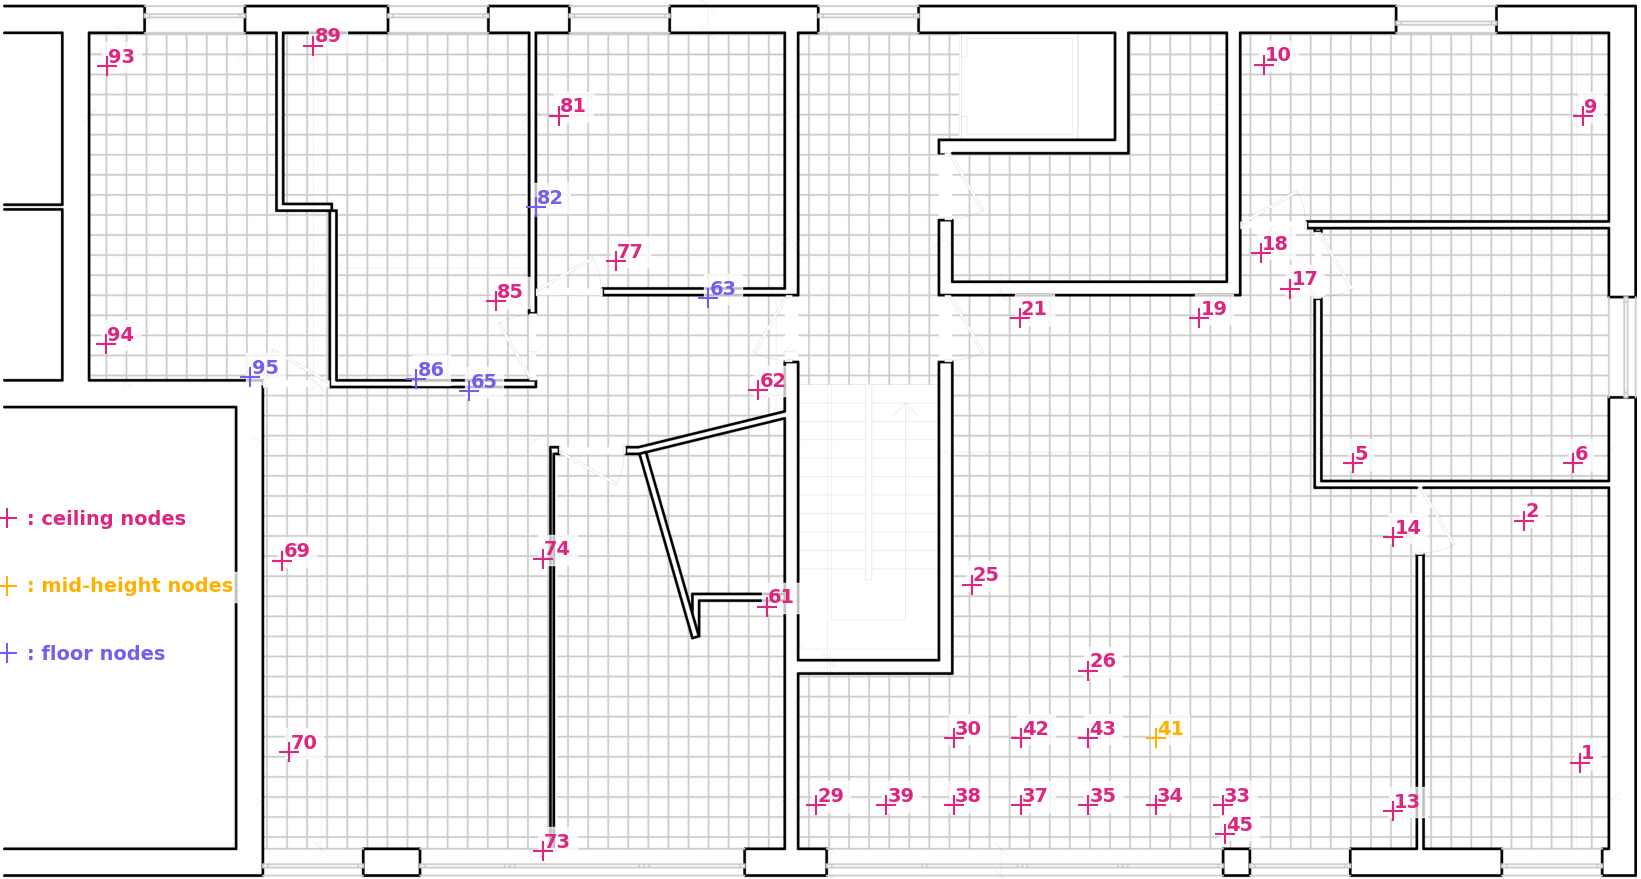
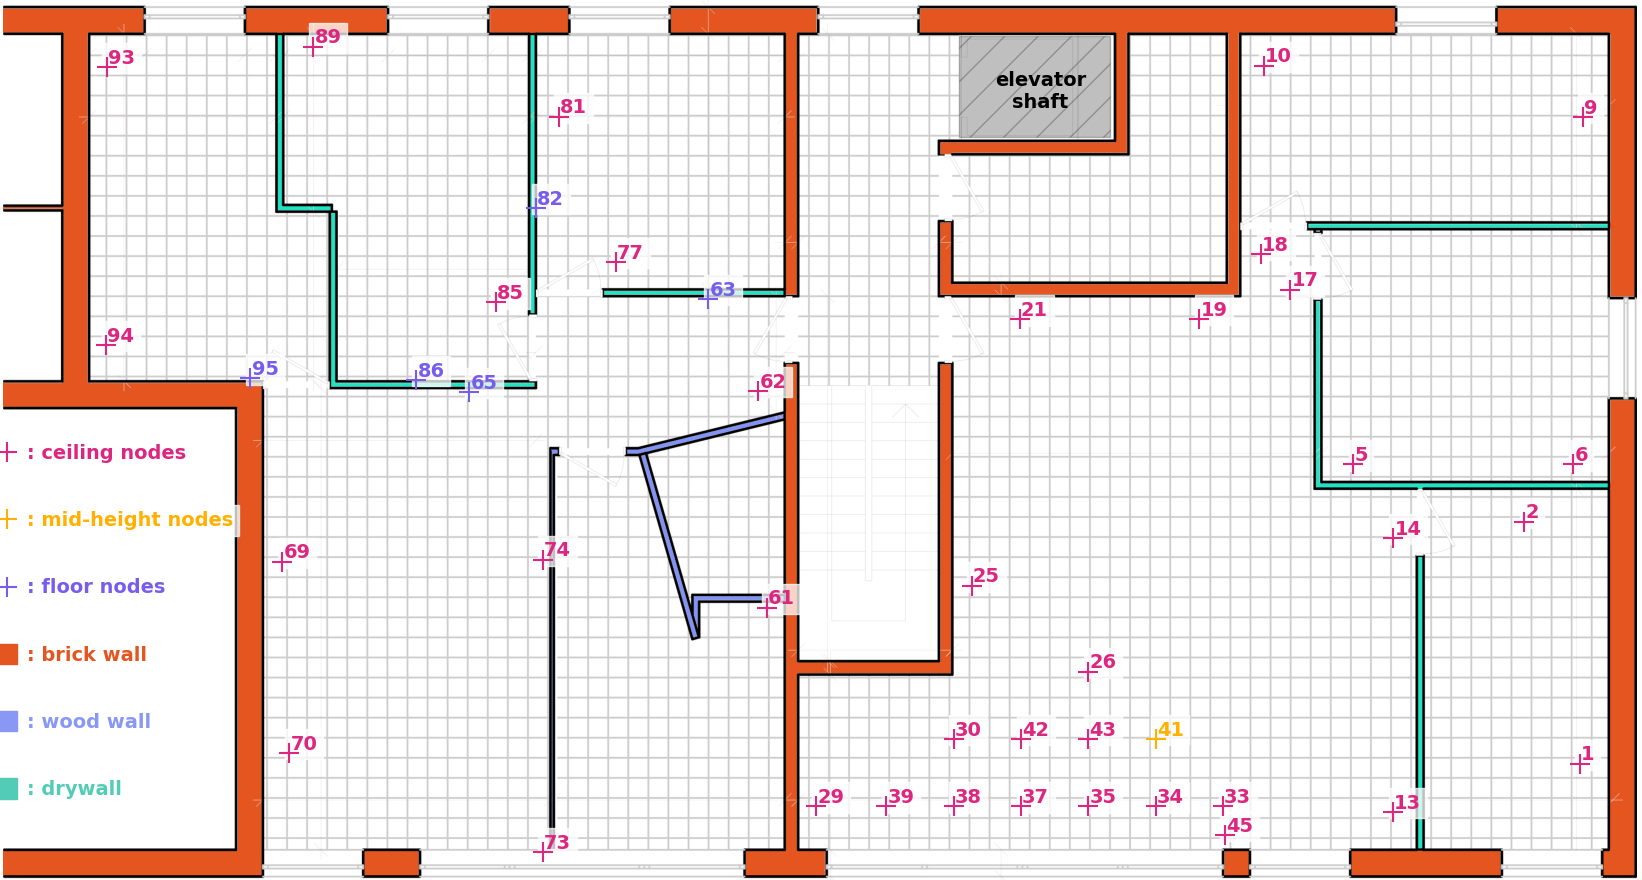
Improves content.

diff --git a/docs/deployment/toulouse.md b/docs/deployment/toulouse.md
@@ -10,46 +10,78 @@ description: The Toulouse site is part of the <a href='https://locura4iot.irit.f
 ## Topology
 
 Toulouse testbed is deployed at a building scale, over the first floor of building C of IUT Blagnac. 
-<div class="row mb-3">
-    <div class="col">
-        <br>
-        <br>
-        <a href="{{ '/assets/images/deployments/toulouse/' | relative_url }}locura_iotlab_map.png" data-toggle="lightbox" data-gallery="gallery-A">
-            <img class="img-fluid" src="{{ '/assets/images/deployments/toulouse/' | relative_url }}locura_iotlab_map.png">
-        </a>
-    </div>
-</div>
-
-<div class="row mb-3">
-    <div class="col p-1">
-        <a href="{{ '/assets/images/deployments/toulouse/' | relative_url }}mount.jpg" data-toggle="lightbox" data-gallery="gallery">
-            <img class="img-thumbnail img-fluid" src="{{ '/assets/images/deployments/toulouse/' | relative_url }}mount.jpg">
-        </a>
-    </div>
-    <div class="col p-1">
-        <a href="{{ '/assets/images/deployments/toulouse/' | relative_url }}demo_room.jpg" data-toggle="lightbox" data-gallery="gallery">
-            <img class="img-thumbnail img-fluid" src="{{ '/assets/images/deployments/toulouse/' | relative_url }}demo_room.jpg">
-        </a>
-    </div>
-</div>
-
-## Node mounting
-
 * Most of the nodes are fixed at a height of 2.65m and at least 30cm away from the walls and ceilings on dedicated plastic mounts.
 * Some nodes are located on the floor or at an intermediate height (1,65m) to enable 3D localisation experiments.
-* The walls are either load-bearing bricks walls or drywalls.
+* The walls are either load-bearing bricks walls, wood pannel walls or drywalls.
 * Node positions are estimated to be known within 2cm of precision \[<a href="https://ut3-toulouseinp.hal.science/hal-03466307">Bossche2022</a>\].
+
+<div class="row justify-content-center">
+    <div class="col-9">
+        <figure>
+            <a href="{{ '/assets/images/deployments/toulouse/' | relative_url }}locura_iotlab_map.png" data-toggle="lightbox" data-gallery="gallery-A">
+                <img class="img-fluid" src="{{ '/assets/images/deployments/toulouse/' | relative_url }}locura_iotlab_map.png">
+            </a>
+            <figcaption>Testbed map</figcaption>
+        </figure>
+    </div>
+</div>
+
+## Views of node setup
 
 <div class="row mb-3">
     <div class="col p-1">
-        <a href="{{ '/assets/images/deployments/toulouse/' | relative_url }}matrix_1.jpg" data-toggle="lightbox" data-gallery="gallery">
-            <img class="img-thumbnail img-fluid" src="{{ '/assets/images/deployments/toulouse/' | relative_url }}matrix_1.jpg">
-        </a>
+        <figure>
+            <a href="{{ '/assets/images/deployments/toulouse/' | relative_url }}demo_room.jpg" data-toggle="lightbox" data-gallery="gallery">
+                <img class="img-thumbnail img-fluid" src="{{ '/assets/images/deployments/toulouse/' | relative_url }}demo_room.jpg">
+            </a>
+            <figcaption>Demo room</figcaption>
+        </figure>
     </div>
     <div class="col p-1">
-        <a href="{{ '/assets/images/deployments/toulouse/' | relative_url }}pole_2.jpg" data-toggle="lightbox" data-gallery="gallery">
-            <img class="img-thumbnail img-fluid" src="{{ '/assets/images/deployments/toulouse/' | relative_url }}pole_2.jpg">
-        </a>
+        <figure>
+            <a href="{{ '/assets/images/deployments/toulouse/' | relative_url }}line.jpg" data-toggle="lightbox" data-gallery="gallery">
+                <img class="img-thumbnail img-fluid" src="{{ '/assets/images/deployments/toulouse/' | relative_url }}line.jpg">
+            </a>
+            <figcaption>high-density mount in demo room</figcaption>
+        </figure>
+    </div>
+</div>
+
+<div class="row mb-3">
+    <div class="col p-1">
+        <figure>
+            <a href="{{ '/assets/images/deployments/toulouse/' | relative_url }}wall_mount.jpg" data-toggle="lightbox" data-gallery="gallery">
+                <img class="img-thumbnail img-fluid" src="{{ '/assets/images/deployments/toulouse/' | relative_url }}wall_mount.jpg">
+            </a>
+            <figcaption>Wall mount</figcaption>
+        </figure>
+    </div>
+    <div class="col p-1">
+        <figure>
+            <a href="{{ '/assets/images/deployments/toulouse/' | relative_url }}floor.jpg" data-toggle="lightbox" data-gallery="gallery">
+                <img class="img-thumbnail img-fluid" src="{{ '/assets/images/deployments/toulouse/' | relative_url }}floor.jpg">
+            </a>
+            <figcaption>Floor node</figcaption>
+        </figure>
+    </div>
+</div>
+
+<div class="row mb-3">
+    <div class="col p-1">
+        <figure>
+            <a href="{{ '/assets/images/deployments/toulouse/' | relative_url }}single_mount.jpg" data-toggle="lightbox" data-gallery="gallery">
+                <img class="img-thumbnail img-fluid" src="{{ '/assets/images/deployments/toulouse/' | relative_url }}single_mount.jpg">
+            </a>
+            <figcaption>Close-up of node mount</figcaption>
+        </figure>
+    </div>
+    <div class="col p-1">
+        <figure>
+            <a href="{{ '/assets/images/deployments/toulouse/' | relative_url }}cabinet.jpg" data-toggle="lightbox" data-gallery="gallery">
+                <img class="img-thumbnail img-fluid" src="{{ '/assets/images/deployments/toulouse/' | relative_url }}cabinet.jpg">
+            </a>
+            <figcaption>Cabinet mount in an office</figcaption>
+        </figure>
     </div>
 </div>
 
